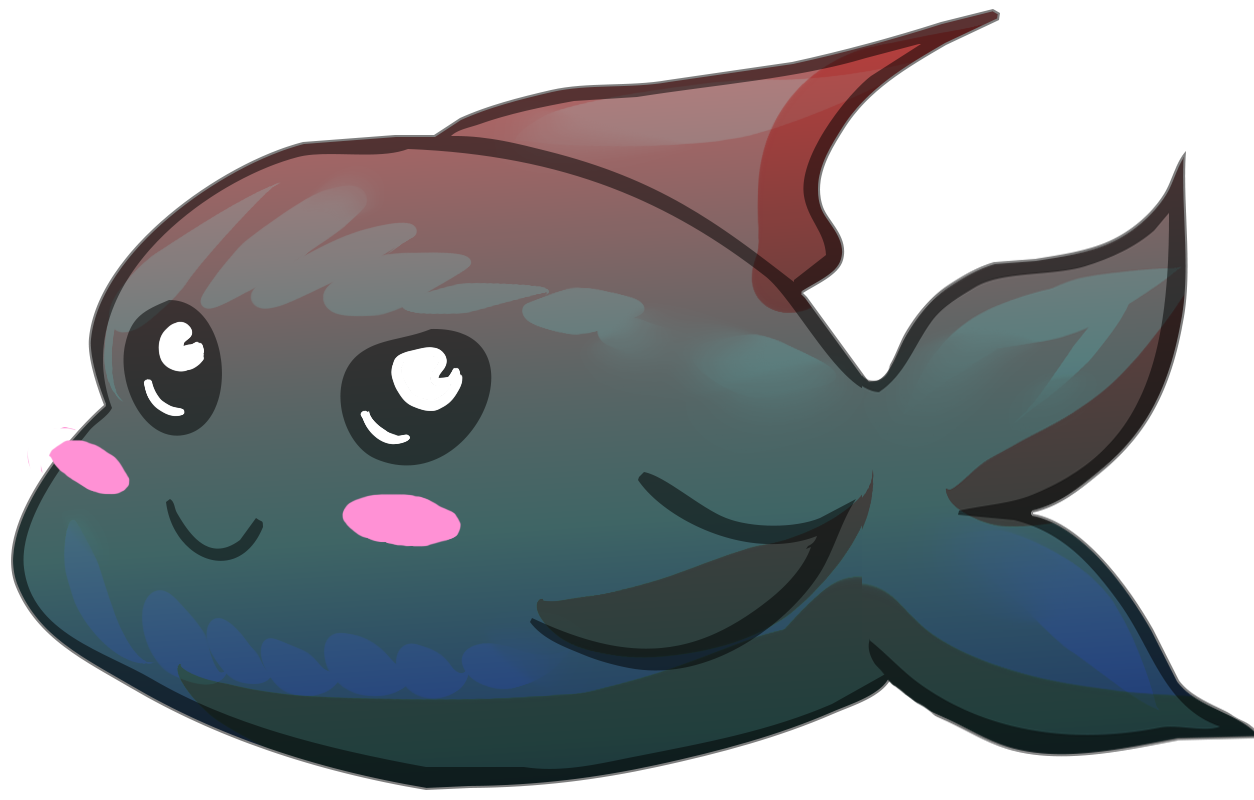
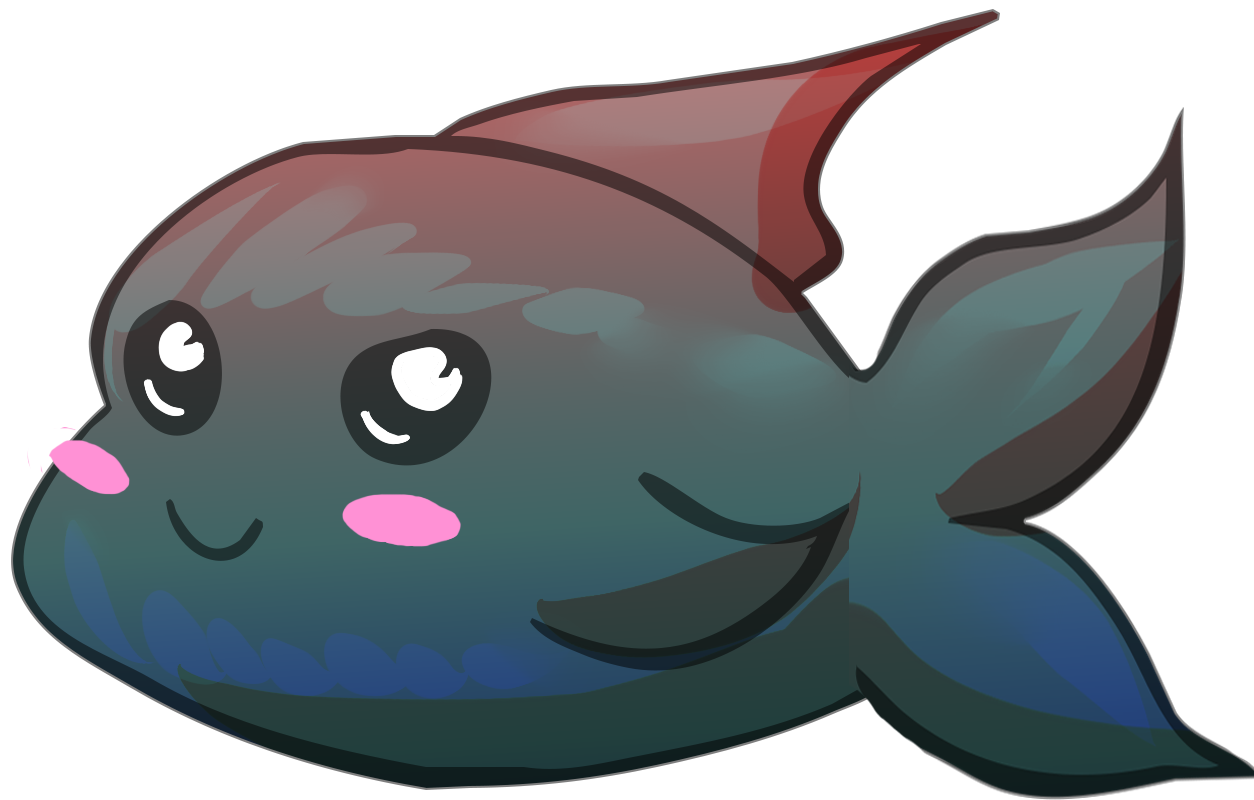
piranha's bite animation added

diff --git a/Aquarium/Properties/Resources.Designer.cs b/Aquarium/Properties/Resources.Designer.cs
@@ -403,6 +403,26 @@ namespace Aquarium.Properties {
         /// <summary>
         ///   Поиск локализованного ресурса типа System.Drawing.Bitmap.
         /// </summary>
+        internal static System.Drawing.Bitmap Piranha3 {
+            get {
+                object obj = ResourceManager.GetObject("Piranha3", resourceCulture);
+                return ((System.Drawing.Bitmap)(obj));
+            }
+        }
+        
+        /// <summary>
+        ///   Поиск локализованного ресурса типа System.Drawing.Bitmap.
+        /// </summary>
+        internal static System.Drawing.Bitmap Piranha4 {
+            get {
+                object obj = ResourceManager.GetObject("Piranha4", resourceCulture);
+                return ((System.Drawing.Bitmap)(obj));
+            }
+        }
+        
+        /// <summary>
+        ///   Поиск локализованного ресурса типа System.Drawing.Bitmap.
+        /// </summary>
         internal static System.Drawing.Bitmap SwordFish1 {
             get {
                 object obj = ResourceManager.GetObject("SwordFish1", resourceCulture);

diff --git a/Aquarium/UI/ObjectDrawer.cs b/Aquarium/UI/ObjectDrawer.cs
@@ -20,7 +20,7 @@ namespace Aquarium.UI
         {
 	        if (!(gameObject is IDrawable)) return;
             if (!_imageFactory.ContainsKey(gameObject))
-                _imageFactory.Add(gameObject, new ImageSource(ObjectNames[gameObject.GetType()], 5, gameObject));
+                _imageFactory.Add(gameObject, new ImageSource(ObjectNames[gameObject.GetType()], 2, gameObject));
             graphics.DrawImage(_imageFactory[gameObject].GetImage(), gameObject.Rectangle());
         }
     }

diff --git a/Aquarium/Program.cs b/Aquarium/Program.cs
@@ -28,7 +28,7 @@ namespace Aquarium
 				})
 				.AddObject(ObjectType.Piranha, 1)
 				.AddObject(ObjectType.Catfish, 2)
-				.AddObject(ObjectType.Swordfish, 1, new Size(300, 100));
+				.AddObject(ObjectType.Swordfish, 1, new Size(200, 100));
 			aquarium.Start(provider);
 			Application.Run(new GameForm(aquarium));
 		}
